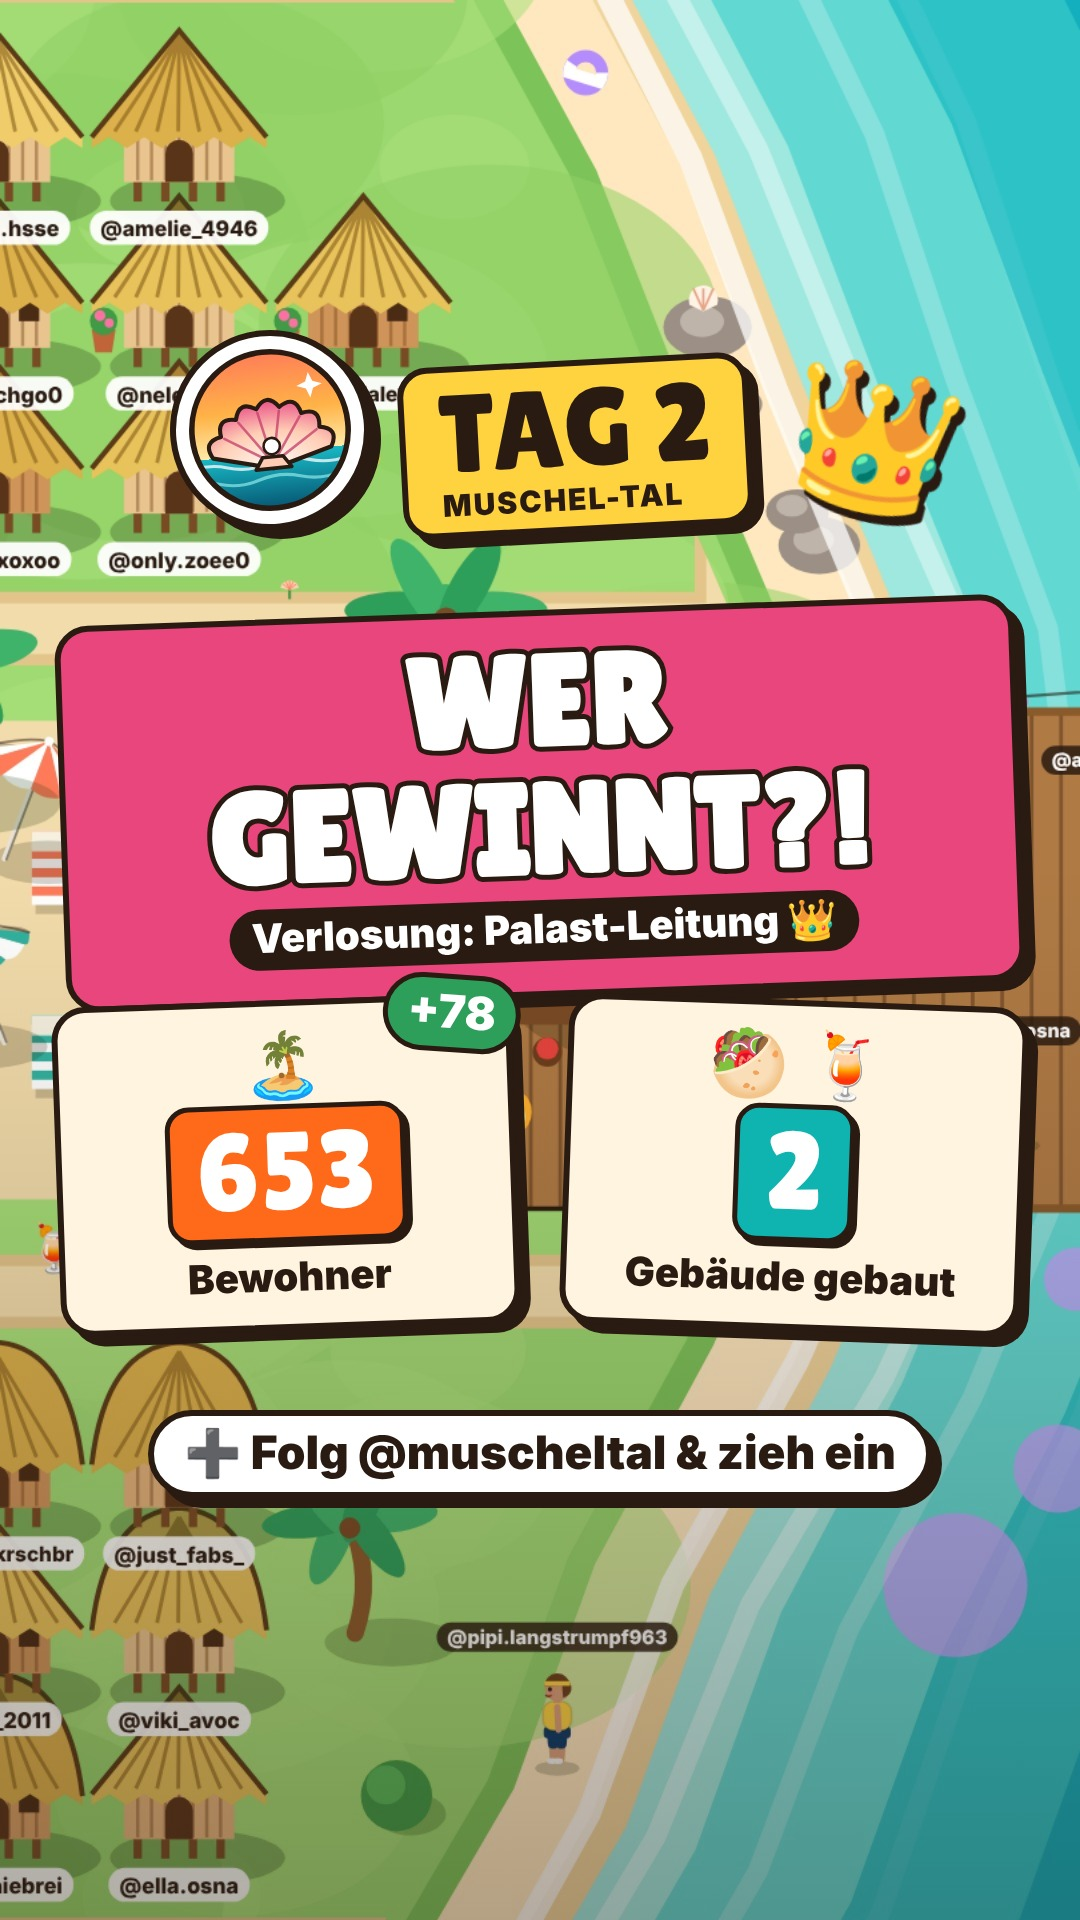
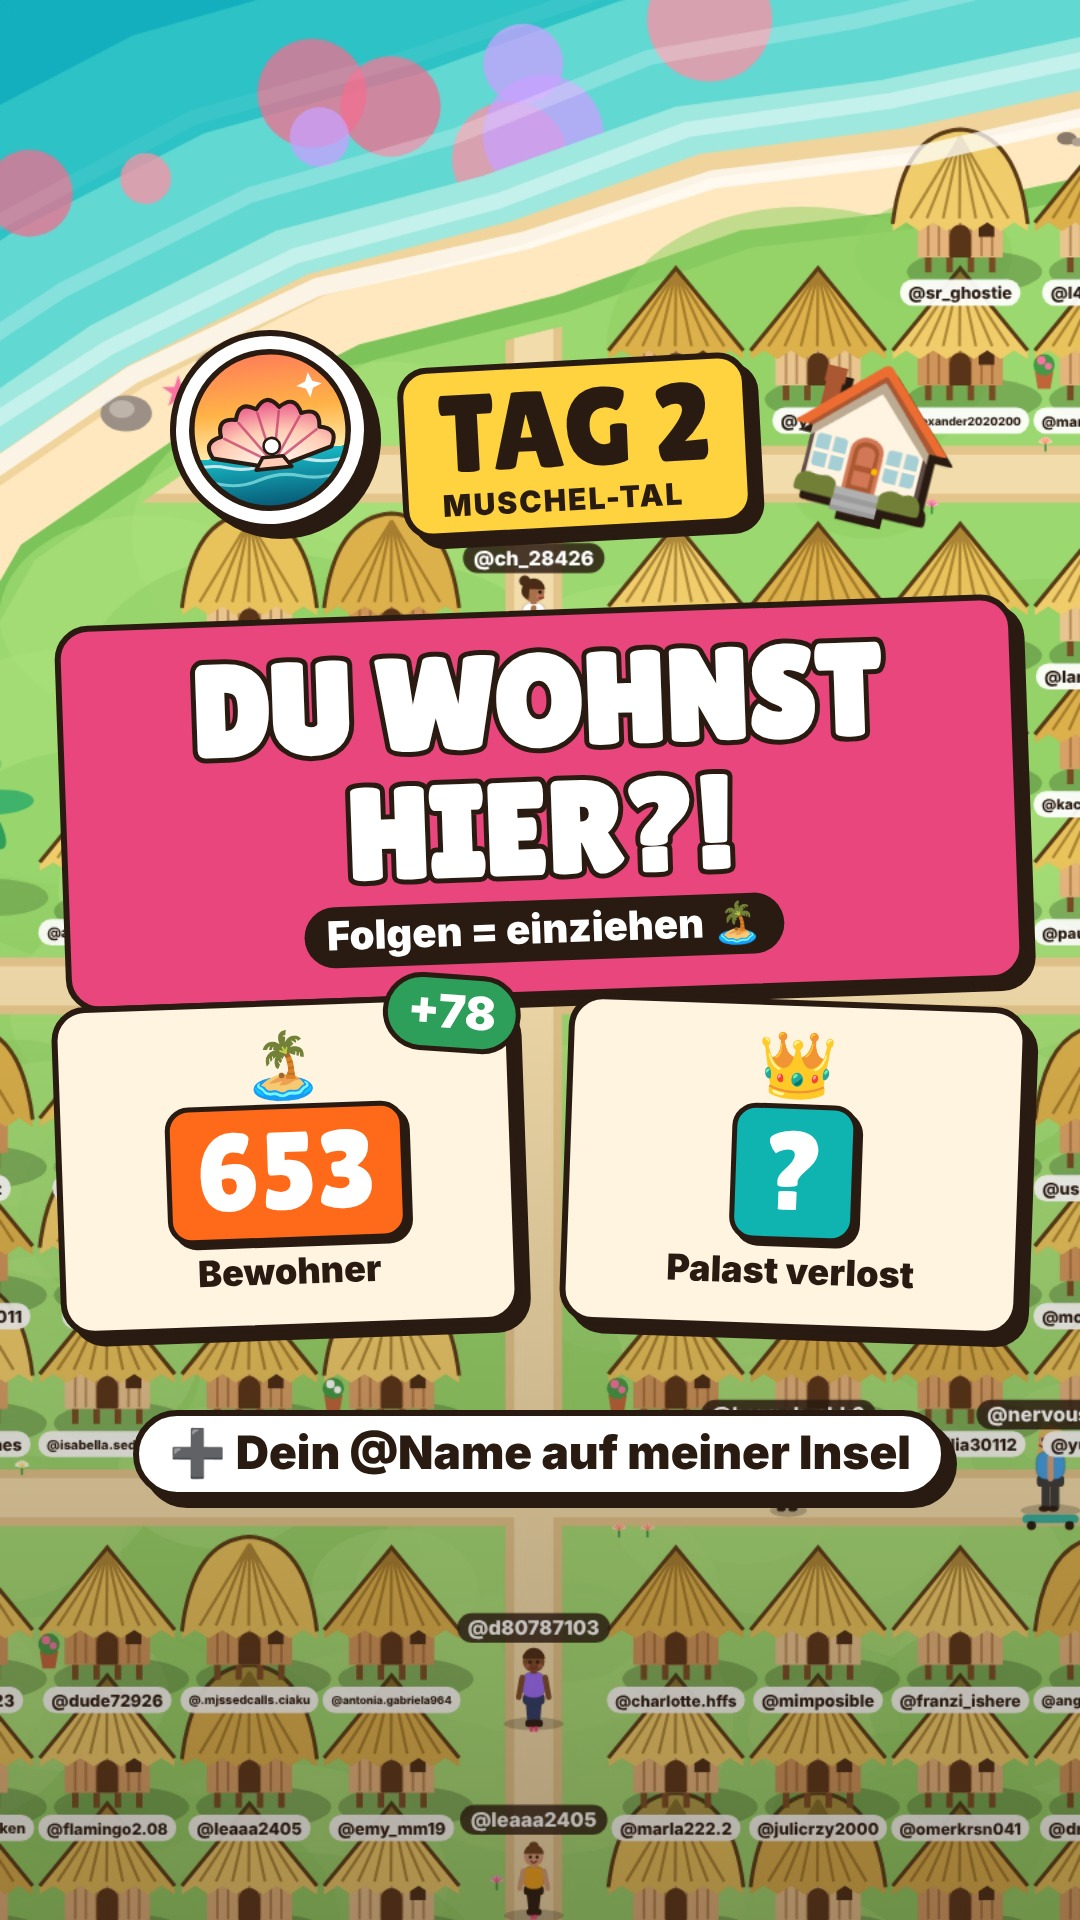
Tag 2: neues Cover + Beschreibung für neue Zuschauer
Claude-Session: https://claude.ai/code/session_01McNdgWwqfWZ56Gqk3h71JF

diff --git a/videos/muscheltal-tag2-gebaut/cover/thumb.html b/videos/muscheltal-tag2-gebaut/cover/thumb.html
@@ -17,7 +17,7 @@
 #c1{left:56px;transform:rotate(-2deg)} #c2{left:564px;transform:rotate(2deg)}
 .card .ic{font-size:64px;line-height:1}
 .card .n{display:inline-block;font-family:"Lilita One";font-size:110px;line-height:1;margin-top:8px;color:#fff;background:#ff6a1a;border:5px solid var(--ink);border-radius:24px;padding:6px 26px 12px;box-shadow:5px 5px 0 var(--ink)}
-.card .l{font-weight:900;font-size:40px;margin-top:10px}
+.card .l{font-weight:900;font-size:36px;margin-top:10px;line-height:1.1}
 .card .d{position:absolute;right:-16px;top:-26px;background:var(--leaf);color:#fff;font-weight:900;font-size:46px;padding:4px 20px 8px;border:5px solid var(--ink);border-radius:999px;transform:rotate(6deg)}
 .card .v{font-weight:800;font-size:26px;color:#7a5a45;margin-top:4px}
 #acc{left:0;right:0;margin:0 auto;width:fit-content;top:1410px;padding:8px 30px 12px;font-weight:900;font-size:46px;background:#fff;border-radius:999px}
@@ -25,9 +25,9 @@
 <div id="bg"></div>
 <div id="logo" class="stk"><svg viewBox="0 0 64 64"><defs><linearGradient id="cvsky" x1="0" y1="0" x2="0" y2="1"><stop offset="0" stop-color="#ff7a59"/><stop offset=".38" stop-color="#ffb347"/><stop offset=".64" stop-color="#ffe9a8"/><stop offset=".64" stop-color="#18b8c4"/><stop offset="1" stop-color="#06506e"/></linearGradient><radialGradient id="cvsh" cx=".5" cy=".95" r=".9"><stop offset="0" stop-color="#fffaf2"/><stop offset=".55" stop-color="#ffcdb5"/><stop offset="1" stop-color="#ec5f8d"/></radialGradient><clipPath id="cvc"><circle cx="32" cy="32" r="30"/></clipPath></defs><g clip-path="url(#cvc)"><rect width="64" height="64" fill="url(#cvsky)"/><path d="M-2 45 Q6 42.5 14 45 T30 45 T46 45 T62 45 T78 45" stroke="#fff" stroke-width="1.2" fill="none" opacity=".75"/><path d="M-6 51 Q2 48.5 10 51 T26 51 T42 51 T58 51 T74 51" stroke="#8fe8e8" stroke-width="1.2" fill="none" opacity=".7"/></g><path d="M32 47 L8.8 40.8 Q5.0 34.0 12.7 32.7 Q11.6 25.0 19.2 26.7 Q21.0 19.1 27.5 23.4 Q32.0 17.0 36.5 23.4 Q43.0 19.1 44.8 26.7 Q52.4 25.0 51.3 32.7 Q59.0 34.0 55.2 40.8 Z" fill="url(#cvsh)" stroke="#2a1b12" stroke-width="1.6" stroke-linejoin="round"/><path d="M32 45L13.9 33.6M32 45L20.0 27.9M32 45L27.8 24.9M32 45L36.2 24.9M32 45L44.0 27.9M32 45L50.1 33.6" stroke="#c43d6b" stroke-width="1" stroke-linecap="round" opacity=".75"/><path d="M25 47 L28 42.5 H36 L39 47 Z" fill="#ffcdb5" stroke="#2a1b12" stroke-width="1.4" stroke-linejoin="round"/><circle cx="32" cy="38.3" r="3.2" fill="#fff" stroke="#2a1b12" stroke-width="1"/><path d="M49 11 l1.4 3.6 3.6 1.4 -3.6 1.4 -1.4 3.6 -1.4 -3.6 -3.6 -1.4 3.6 -1.4z" fill="#fff"/><circle cx="32" cy="32" r="30.5" fill="none" stroke="#2a1b12" stroke-width="2.2"/></svg></div>
 <div id="tag" class="stk">TAG 2<small>MUSCHEL-TAL</small></div>
-<div id="hl" class="stk"><b>WER GEWINNT?!</b><span>Verlosung: Palast-Leitung 👑</span></div>
-<div id="coco">👑</div>
+<div id="hl" class="stk"><b>DU WOHNST HIER?!</b><span>Folgen = einziehen 🏝</span></div>
+<div id="coco">🏠</div>
 <div id="c1" class="stk card"><div class="ic">🏝</div><div class="n">653</div><div class="l">Bewohner</div><div class="d">+78</div></div>
-<div id="c2" class="stk card"><div class="ic">🥙 🍹</div><div class="n" style="background:#0fb3b0">2</div><div class="l">Gebäude gebaut</div></div>
-<div id="acc" class="stk">➕ Folg @muscheltal &amp; zieh ein</div>
+<div id="c2" class="stk card"><div class="ic">👑</div><div class="n" style="background:#0fb3b0">?</div><div class="l">Palast verlost</div></div>
+<div id="acc" class="stk">➕ Dein @Name auf meiner Insel</div>
 </body></html>

diff --git a/videos/muscheltal-tag2-gebaut/BESCHREIBUNG.md b/videos/muscheltal-tag2-gebaut/BESCHREIBUNG.md
@@ -1,17 +1,26 @@
-# Muschel-Tal – Tag 2 „Gebaut + Verlosung Palast-Leitung“ · Beschreibung
+# Muschel-Tal – Tag 2 · Beschreibung
 
-**Cover:** `renders/cover.jpg` (Vorlage `cover/thumb.html`) – Logo + „TAG 2“, „WER GEWINNT?! – Verlosung: Palast-Leitung 👑“, Karten 653 Bewohner (+78) / 2 Gebäude gebaut. Hintergrund: Strandbar von oben.
+**Cover:** `renders/cover.jpg` (Vorlage `cover/thumb.html`, gewohntes Layout) – Logo + „TAG 2“, „DU WOHNST HIER?! – Folgen = einziehen 🏝“, Karten „653 Bewohner (+78)“ und „? Palast verlost“ (verrät den Gewinner nicht), „➕ Dein @Name auf meiner Insel“. Hintergrund: Hütten-Reihen mit echten @Namen.
 
-**Verlosung:** Gewinner(in) Palast-Leitung = **@prvt.lott1** (Einwohner Nr. 152, Haupt-Insel), am 9.11. per Zufall (Python `secrets.choice`) aus allen 647 Einwohnern ohne Amt/Job gezogen.
+**Verlosung:** Palast-Leitung = **Lotti (@prvt.lott1)**, Einwohner Nr. 152, am 9.11. per Zufall (Python `secrets.choice`) aus allen 647 Einwohnern ohne Amt/Job gezogen.
 
 ## Hauptversion (zum Posten)
-Tag 2 in Muschel-Tal 🐚 Ihr habt abgestimmt – Dönerbude 🥙 und Strandbar 🍹 sind gebaut! Und ich habe live die Palast-Leitung ausgelost 👑 Bist du es?
+Folg mir und du wohnst auf meiner Insel 🏝 Jeder Follower bekommt eine eigene Hütte mit seinem @Namen – auf muscheltal.de kannst du sie finden.
 
-653 Bewohner wohnen schon auf unseren Inseln, 148 davon auf der Kokos-Küste 🥥 Im nächsten Video verlose ich die Strandvilla 🏖 – für zwei von euch! Und Sophia hat ihren Pool bekommen 🏊 Als Nächstes bauen wir das Hotel, das Tierheim und die Anlegestelle – damit könnt ihr bald zwischen den Inseln wechseln ⛵
+Tag 2 in Muschel-Tal: 653 Bewohner! Ihr habt abgestimmt und die Dönerbude 🥙 und die Strandbar 🍹 sind gebaut. Lilly ist unsere Bürgermeisterin und ich habe live die Palast-Leitung ausgelost 👑
 
-Folg @muscheltal und du ziehst ein. Markier deine Freunde, damit sie deine Nachbarn werden 👇
+Nächstes Video: Ich verlose die Strandvilla mit Pool an zwei von euch 🏖 Folgen = einziehen = mitmachen.
 
-#muscheltal #fürdich #fyp #verlosung #community
+Markier deine Freunde, dann werdet ihr Nachbarn 👇
+
+#muscheltal #fürdich #insel #verlosung #community
 
 ## Angepinnter Kommentar (vom Account selbst)
-Glückwunsch @prvt.lott1 👑 Du bist jetzt eine Woche Palast-Leitung und wohnst mit im Muschelpalast! Wer zieht als Nächstes in die Strandvilla? 🏖
+Glückwunsch Lotti 👑 Du wohnst jetzt eine Woche mit Lilly im Muschelpalast! Was soll Lilly als Erstes beschließen? Der Top-Kommentar gewinnt 👇
+
+## Warum so
+- Erster Satz = Versprechen für Neue („Folg mir und du wohnst auf meiner Insel“) – erscheint in der Vorschau vor dem „mehr“.
+- Konkreter Mehrwert: eigene Hütte mit @Namen, auffindbar auf muscheltal.de.
+- Neugier + Wiederkommen: Strandvilla-Verlosung im nächsten Video.
+- Interaktion für den Algorithmus: Freunde markieren + Top-Kommentar-Frage im angepinnten Kommentar.
+- Hashtags: 5 Stück, Mischung aus Marke (#muscheltal), Reichweite (#fürdich) und Thema (#insel #verlosung #community).
